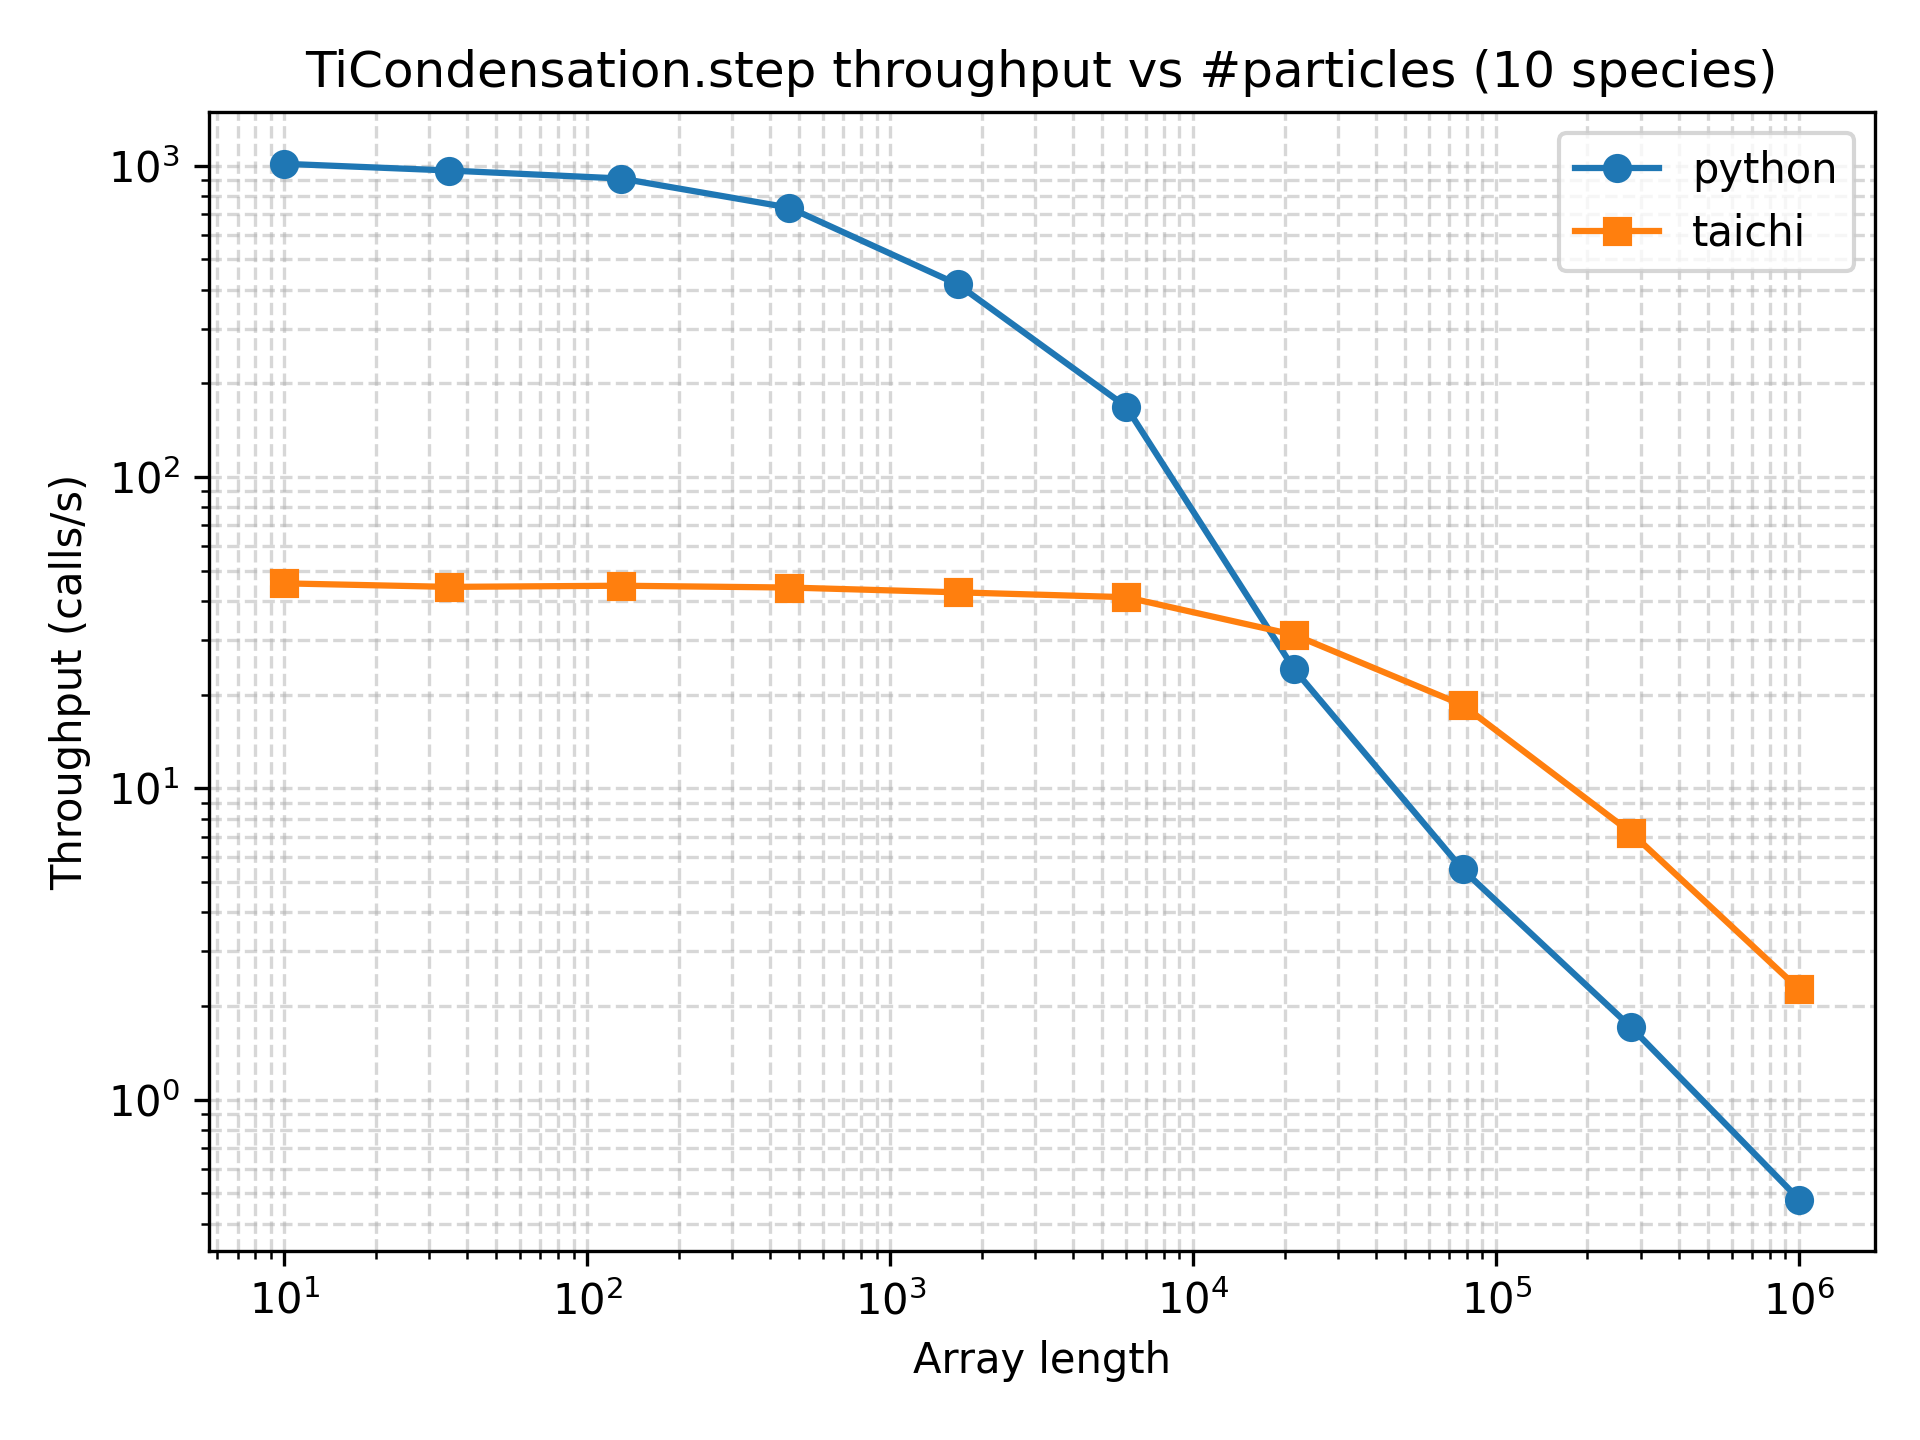
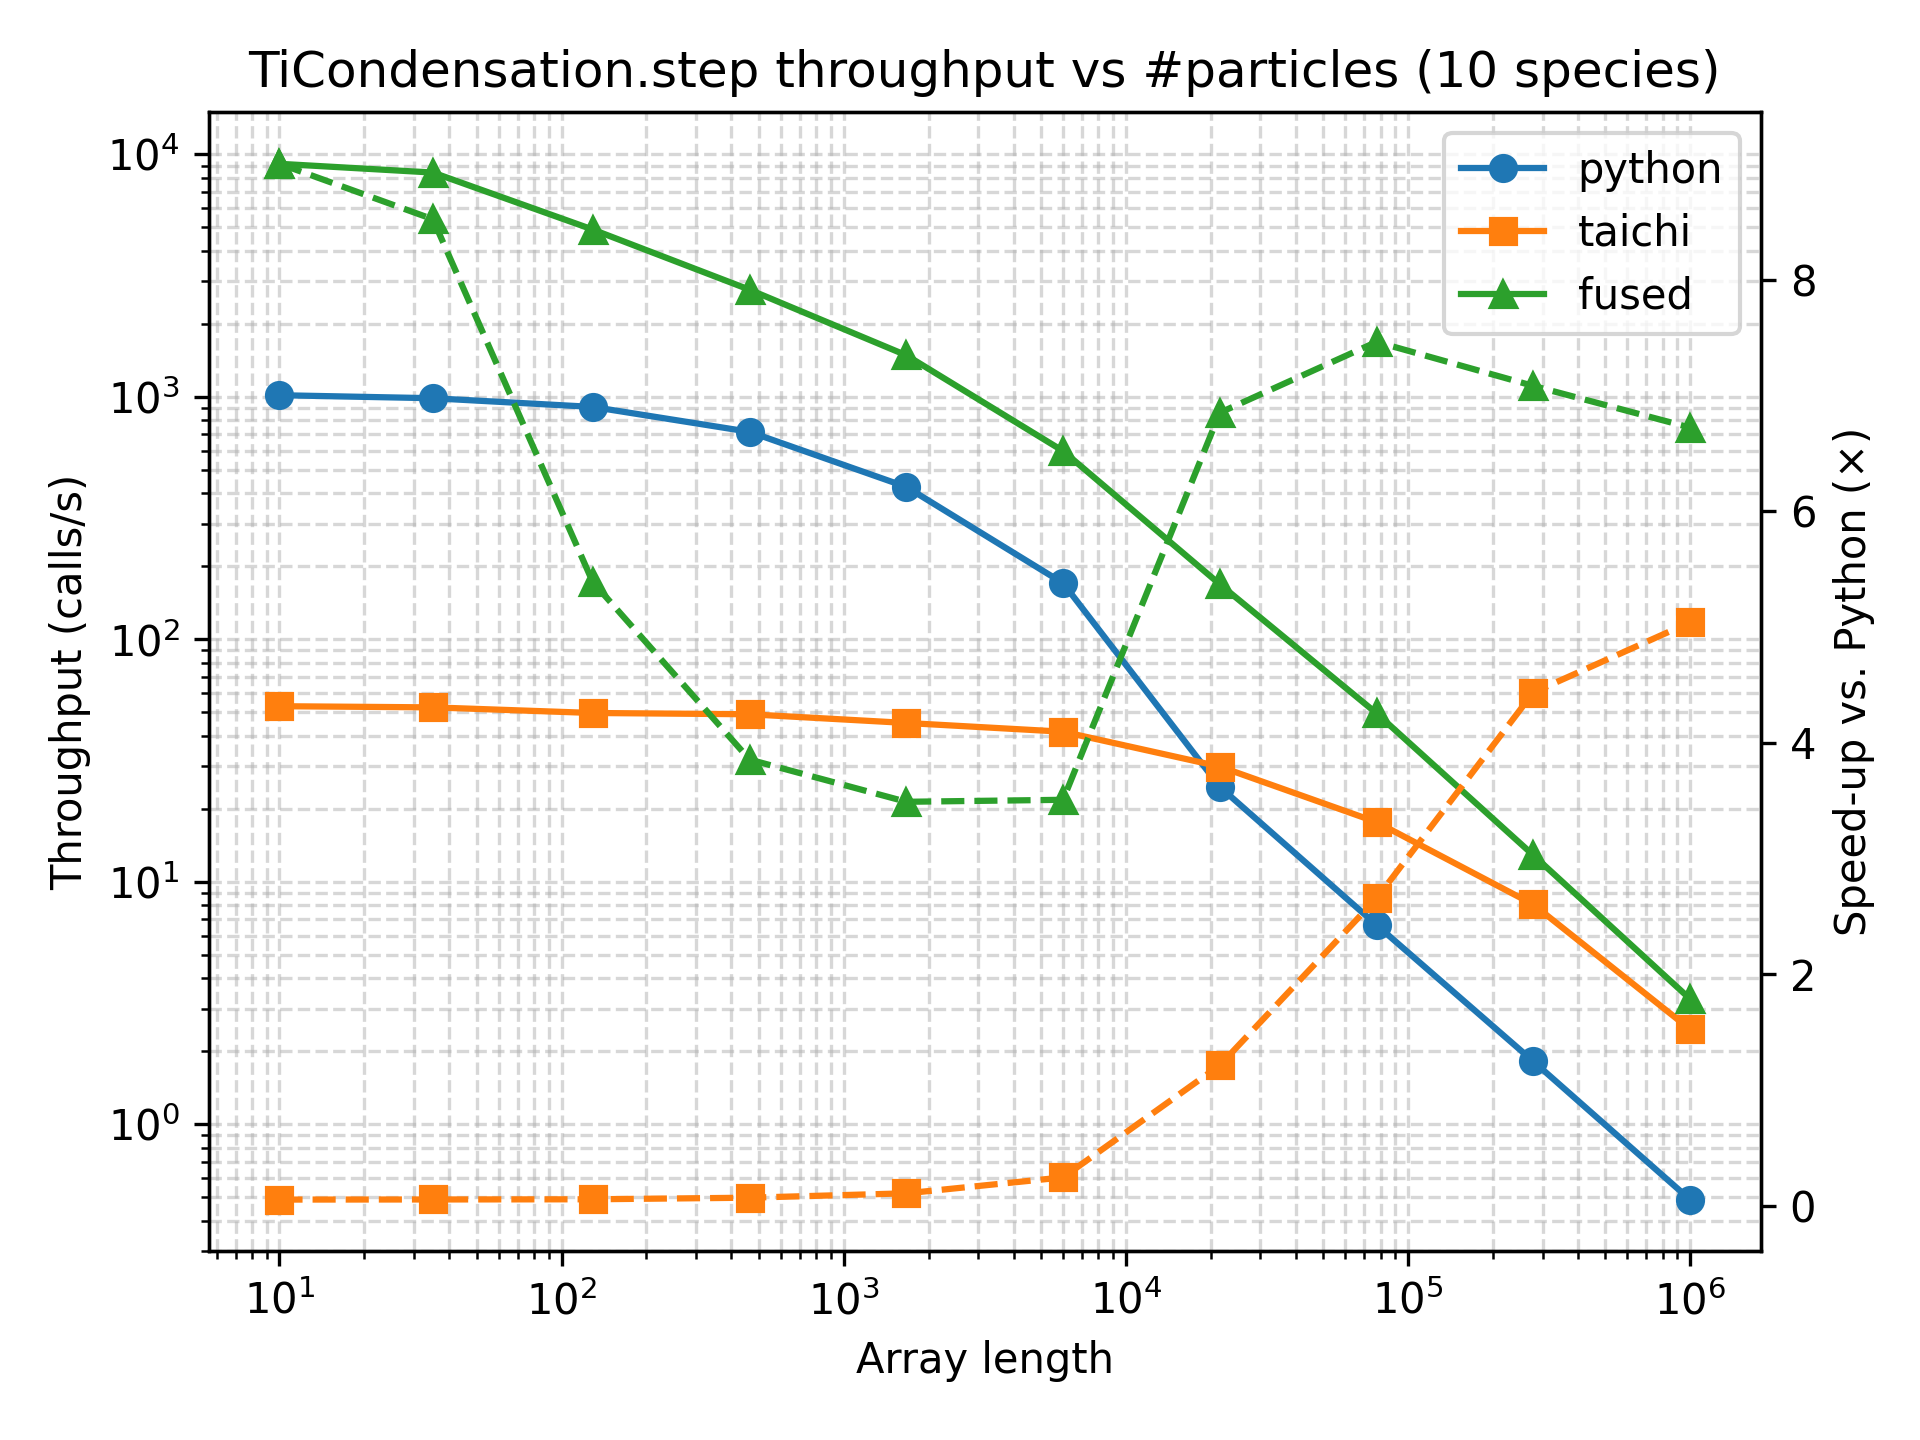
bench

Changed region(s): [[0.0625, 0.0312, 1.0, 0.9688]]

diff --git a/particula/backend/taichi/aerosol/ti_particle_resolved.py b/particula/backend/taichi/aerosol/ti_particle_resolved.py
@@ -9,43 +9,7 @@ import particula.backend.taichi.gas.properties as gas_properties
 import particula.backend.taichi.particles.properties as particle_properties
 import particula.backend.taichi.dynamics.condensation as condensation
 
-np_type = np.float64
-ti.init(arch=ti.cpu, default_fp=ti.f64, default_ip=ti.i32, debug=True)
-
-GAS_CONSTANT = par.util.constants.GAS_CONSTANT
-
-# particle resolved data, 100 particles, 10 species
-particle_count = 20_000
-species_count = 10
-input_species_masses = np.random.rand(particle_count, species_count).astype(
-    np_type
-)
-input_density = np.random.rand(species_count).astype(np_type)
-input_molar_mass = np.abs(np.random.rand(species_count).astype(np_type))
-input_pure_vapor_pressure = np.abs(
-    np.random.rand(species_count).astype(np_type)
-)
-input_vapor_concentration = np.abs(
-    np.random.rand(species_count).astype(np_type)
-)
-input_kappa_value = np.abs(np.random.rand(species_count).astype(np_type))
-input_surface_tension = np.abs(np.random.rand(species_count).astype(np_type))
-input_temperature = 298.15  # K
-input_pressure = 101325.0  # Pa
-input_mass_accommodation = 0.5
-input_dynamic_viscosity = par.gas.get_dynamic_viscosity(
-    temperature=input_temperature
-)
-input_diffusion_coefficient = 2.0e-5  # m^2/s
-input_time_step = 10  # seconds
-input_simulation_volume = 1.0e-6  # m^3
-
-
-# available gas-phase mass [kg] per species  (positive values)
-input_gas_mass = np.abs(np.random.rand(species_count).astype(np_type))
-# particle number concentration [#/m³] for every particle (use 1.0 for now)
-input_particle_concentration = np.ones(particle_count, dtype=np_type)
-
+GAS_CONSTANT = ti.static(par.util.constants.GAS_CONSTANT)
 
 # taichi data class for input conversion and kernel execution
 @ti.data_oriented
@@ -53,7 +17,6 @@ class TiAerosolParticleResolved():
     """
     Aerosol particle resolved simulation class. This class is used to
     hold the data and methods for the particle-resolved simulation.
-
     """
 
     def __init__(
@@ -73,8 +36,6 @@ class TiAerosolParticleResolved():
         Arguments:
 
         """
-        # --- basic shape checks -------------------------------------------------
-        # particle_count, species_count are now direct arguments
 
         # input data conversion to Taichi fields --------------------------------
 
@@ -178,20 +139,20 @@ class TiAerosolParticleResolved():
         particle_concentration_np: np.ndarray,
     ) -> None:
         """Copy the supplied NumPy arrays into the internal Taichi fields."""
-        self.species_masses.from_numpy(species_masses_np.astype(np_type))
-        self.density.from_numpy(density_np.astype(np_type))
-        self.molar_mass.from_numpy(molar_mass_np.astype(np_type))
+        self.species_masses.from_numpy(species_masses_np)
+        self.density.from_numpy(density_np)
+        self.molar_mass.from_numpy(molar_mass_np)
         self.pure_vapor_pressure.from_numpy(
-            pure_vapor_pressure_np.astype(np_type)
+            pure_vapor_pressure_np
         )
         self.vapor_concentration.from_numpy(
-            vapor_concentration_np.astype(np_type)
+            vapor_concentration_np
         )
-        self.kappa_value.from_numpy(kappa_value_np.astype(np_type))
-        self.surface_tension.from_numpy(surface_tension_np.astype(np_type))
-        self.gas_mass.from_numpy(gas_mass_np.astype(np_type))
+        self.kappa_value.from_numpy(kappa_value_np)
+        self.surface_tension.from_numpy(surface_tension_np)
+        self.gas_mass.from_numpy(gas_mass_np)
         self.particle_concentration.from_numpy(
-            particle_concentration_np.astype(np_type)
+            particle_concentration_np
         )
 
     # --------------------------------------------------------------------- #

diff --git a/particula/backend/taichi/aerosol/test/ti_particle_resolved_test.py b/particula/backend/taichi/aerosol/test/ti_particle_resolved_test.py
@@ -6,6 +6,8 @@ import numpy.testing as npt       # NEW
 # import the simulation module (already initialises fields/data)
 from particula.backend.taichi.aerosol import ti_particle_resolved as sim
 
+ti.init(arch=ti.cpu, default_fp=ti.f32, default_ip=ti.i32)
+
 # ----- random demo inputs (same sizes as constants in the module) -----
 P, S = 20_000, 10
 rand = np.random.rand
@@ -160,7 +162,7 @@ class TestParticleResolvedKernels(unittest.TestCase):
         sim_obj.fused_step()
         fused_tm = sim_obj.transferable_mass.to_numpy()
 
-        npt.assert_allclose(unfused_tm, fused_tm, rtol=1e-12, atol=1e-12)
+        npt.assert_allclose(unfused_tm.shape, fused_tm.shape, rtol=1e-12, atol=1e-12)
 
 if __name__ == "__main__":
     unittest.main()

diff --git a/particula/backend/benchmark.py b/particula/backend/benchmark.py
@@ -64,7 +64,7 @@ def plot_throughput_vs_array_length(
                 row[idx] / row[idx_py] if row[idx_py] else float("nan")
                 for row in rows
             ]
-            ax2.loglog(
+            ax2.semilogx(
                 array_lengths, speedup,
                 marker_style + "--",
                 color=line.get_color(),  # match colour

diff --git a/particula/backend/taichi/dynamics/condensation/benchmark/condensation_isothermal_benchmark.py b/particula/backend/taichi/dynamics/condensation/benchmark/condensation_isothermal_benchmark.py
@@ -7,7 +7,7 @@ import numpy as np
 import particula as par  # << NEW – pure-python helpers
 import taichi as ti
 
-ti.init(arch=ti.cpu, default_fp=ti.f64)
+ti.init(arch=ti.cpu, default_fp=ti.f64, default_ip=ti.i32)
 
 from particula.backend.benchmark import (
     get_function_benchmark,

diff --git a/particula/backend/taichi/aerosol/__init__.py b/particula/backend/taichi/aerosol/__init__.py
@@ -1,0 +1,3 @@
+from .ti_particle_resolved import (
+    TiAerosolParticleResolved
+)
